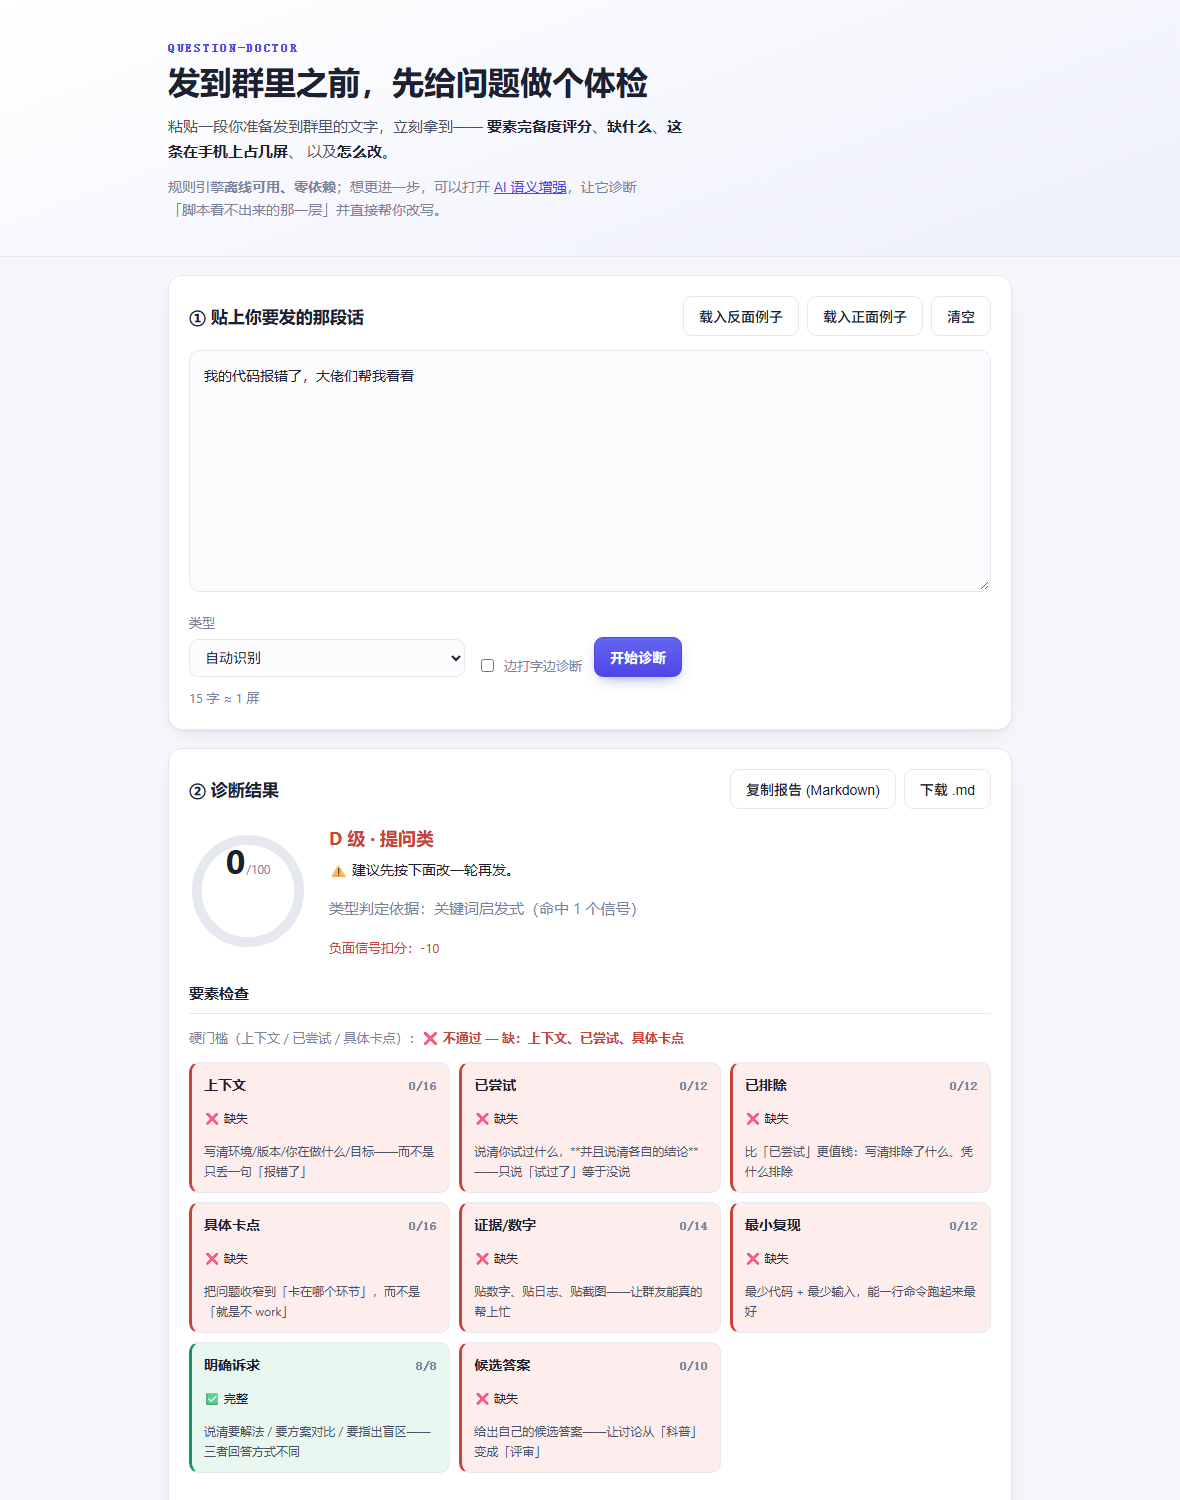
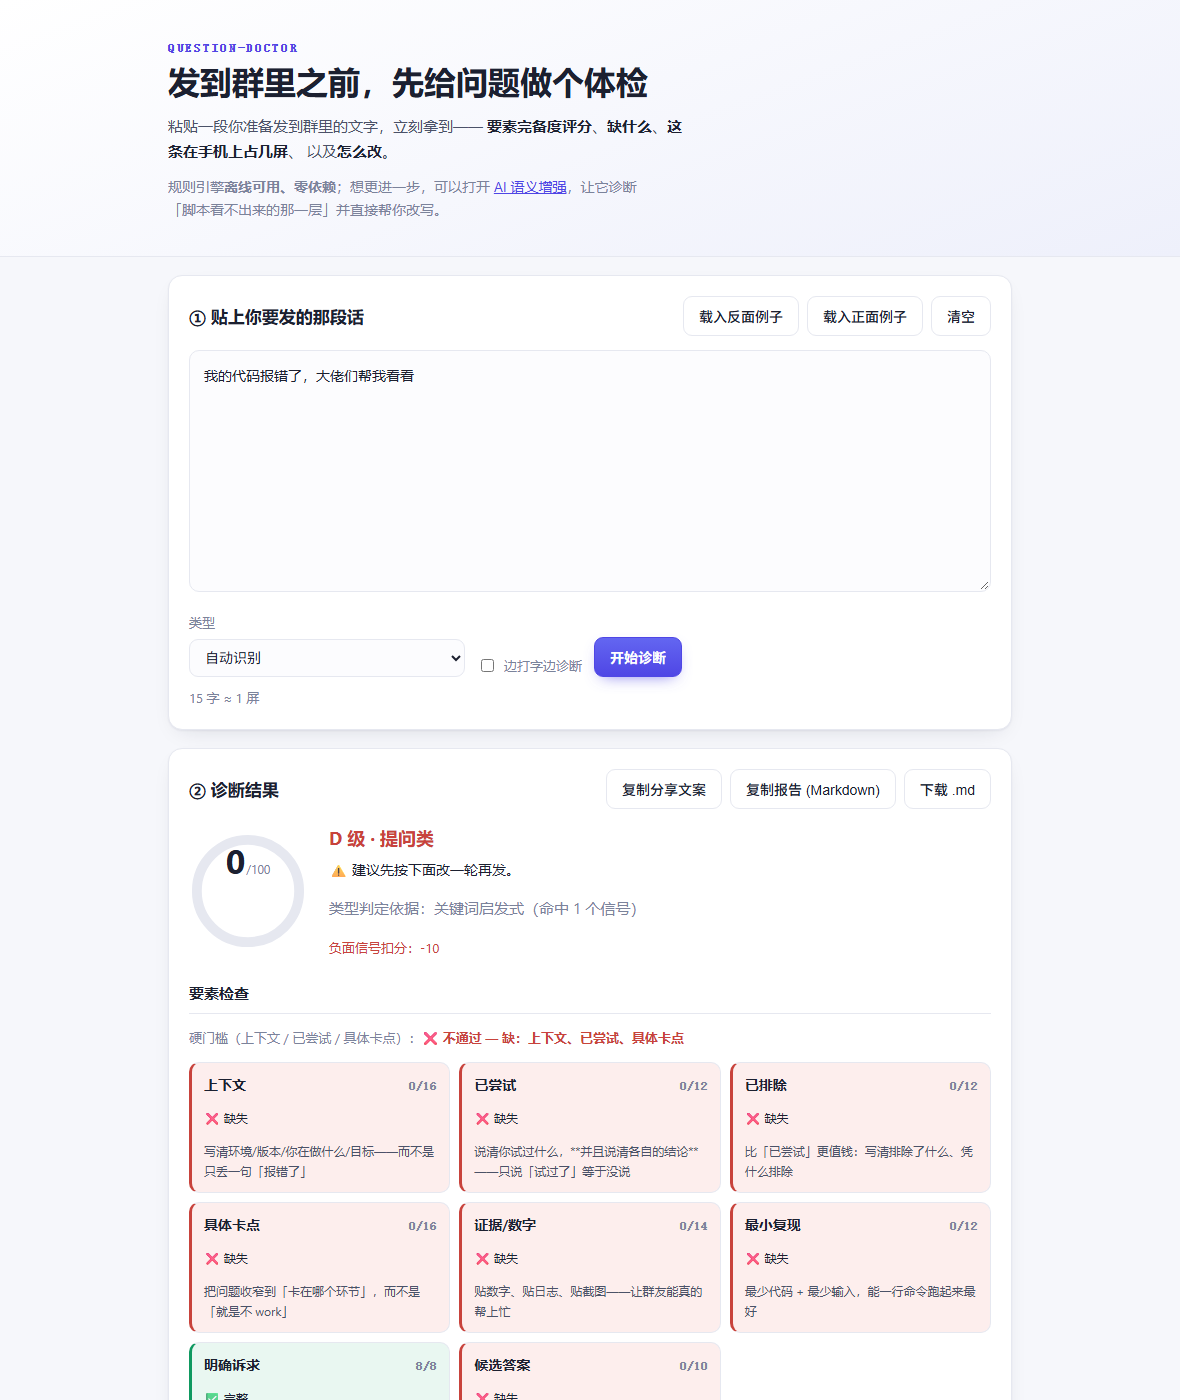
feat(web): 加「复制分享文案」—— 让使用痕迹能被真实记录
C4 的最高权重是「被使用次数」，C6 最关键的一条是"观察有多少人试用"。
这两项目标都不是靠代码达成的，但产品的形态可以决定它们**有多难发生**。

这个按钮一键生成一段可直接粘到群里的文案，设计上守三条：
1. 只带分数，绝不带草稿原文 —— 用户贴进来的可能是私事
2. 链接用 location.href 现算，不硬编码 —— 别人 fork 到自己域名部署时
   分享出去的链接也得是对的
3. 文案先讲清"这工具是干什么的"，分数只是钩子 —— 对读到的人有用才允许发，
   一条对群里没价值的消息只会消耗发信人的信用

diff --git a/web/app.js b/web/app.js
@@ -133,6 +133,30 @@
     $('result-card').classList.remove('hidden');
   }
 
+  /**
+   * 生成一段可以直接粘到群里的分享文案。
+   *
+   * 设计约束（三条，都是为了不变成垃圾消息）：
+   *   1. **只带分数，绝不带草稿原文** —— 用户贴进来的可能是私事，
+   *      分享文案里出现原文就等于替他泄露了。
+   *   2. **链接用 location.href 现算**，不硬编码 —— 别人 fork 到自己域名部署时，
+   *      分享出去的链接也得是对的。
+   *   3. **对读到的人有用**，才允许发 —— 所以文案里先讲清"这工具是干什么的"，
+   *      分数只是钩子。一条对群里没价值的消息，发出去只会消耗你的信用。
+   */
+  function shareText(r) {
+    const lacks = r.missing.length ? r.missing.slice(0, 2).join('」和「') : '';
+    const scoreLine = lacks
+      ? `我用「提问医生」把刚写的问题过了一遍：${Math.round(r.score)}/100，缺「${lacks}」。`
+      : `我用「提问医生」把刚写的问题过了一遍：${Math.round(r.score)}/100，要素齐了。`;
+    return [
+      scoreLine,
+      '发到群里之前跑一遍，能少一轮来回——它只查"信息够不够别人开始帮你"，不评你问得好不好。',
+      '免登录、打开就能用（核心功能不联网）：',
+      location.origin + location.pathname,
+    ].join('\n');
+  }
+
   /* ══════════════════════════════════════════════════════════
      Layer 1 · Markdown 报告导出（同样走 engine.js，保证与 CLI 输出一致）
      ══════════════════════════════════════════════════════════ */
@@ -486,6 +510,19 @@ def handle_endtag(tag):
         setTimeout(() => ($('btn-copy').textContent = '复制报告 (Markdown)'), 1600);
       } catch {
         alert('复制失败，请手动选中。报告内容：\n\n' + md.slice(0, 400));
+      }
+    });
+
+    $('btn-share').addEventListener('click', async () => {
+      if (!lastResult) return;
+      const text = shareText(lastResult);
+      const btn = $('btn-share');
+      try {
+        await navigator.clipboard.writeText(text);
+        btn.textContent = '已复制 ✓';
+        setTimeout(() => (btn.textContent = '复制分享文案'), 1600);
+      } catch {
+        alert('复制失败，请手动复制：\n\n' + text);
       }
     });
 

diff --git a/web/index.html b/web/index.html
@@ -69,6 +69,7 @@
     <div class="card-head">
       <h2>② 诊断结果</h2>
       <div class="row-tools">
+        <button class="btn ghost" type="button" id="btn-share">复制分享文案</button>
         <button class="btn ghost" type="button" id="btn-copy">复制报告 (Markdown)</button>
         <button class="btn ghost" type="button" id="btn-download">下载 .md</button>
       </div>
